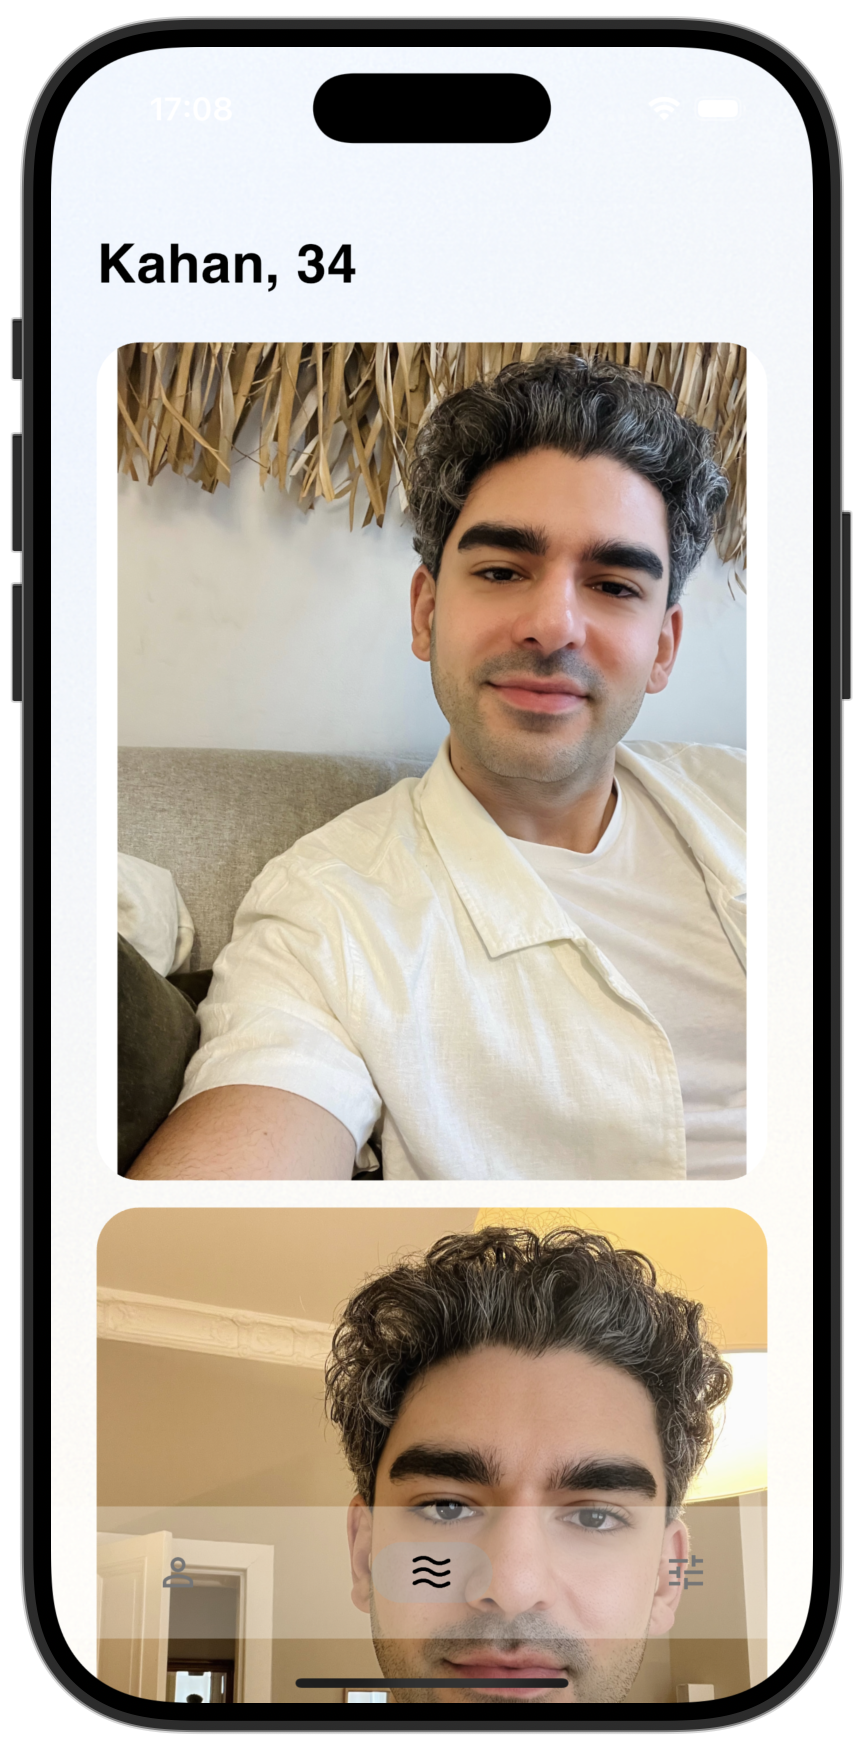
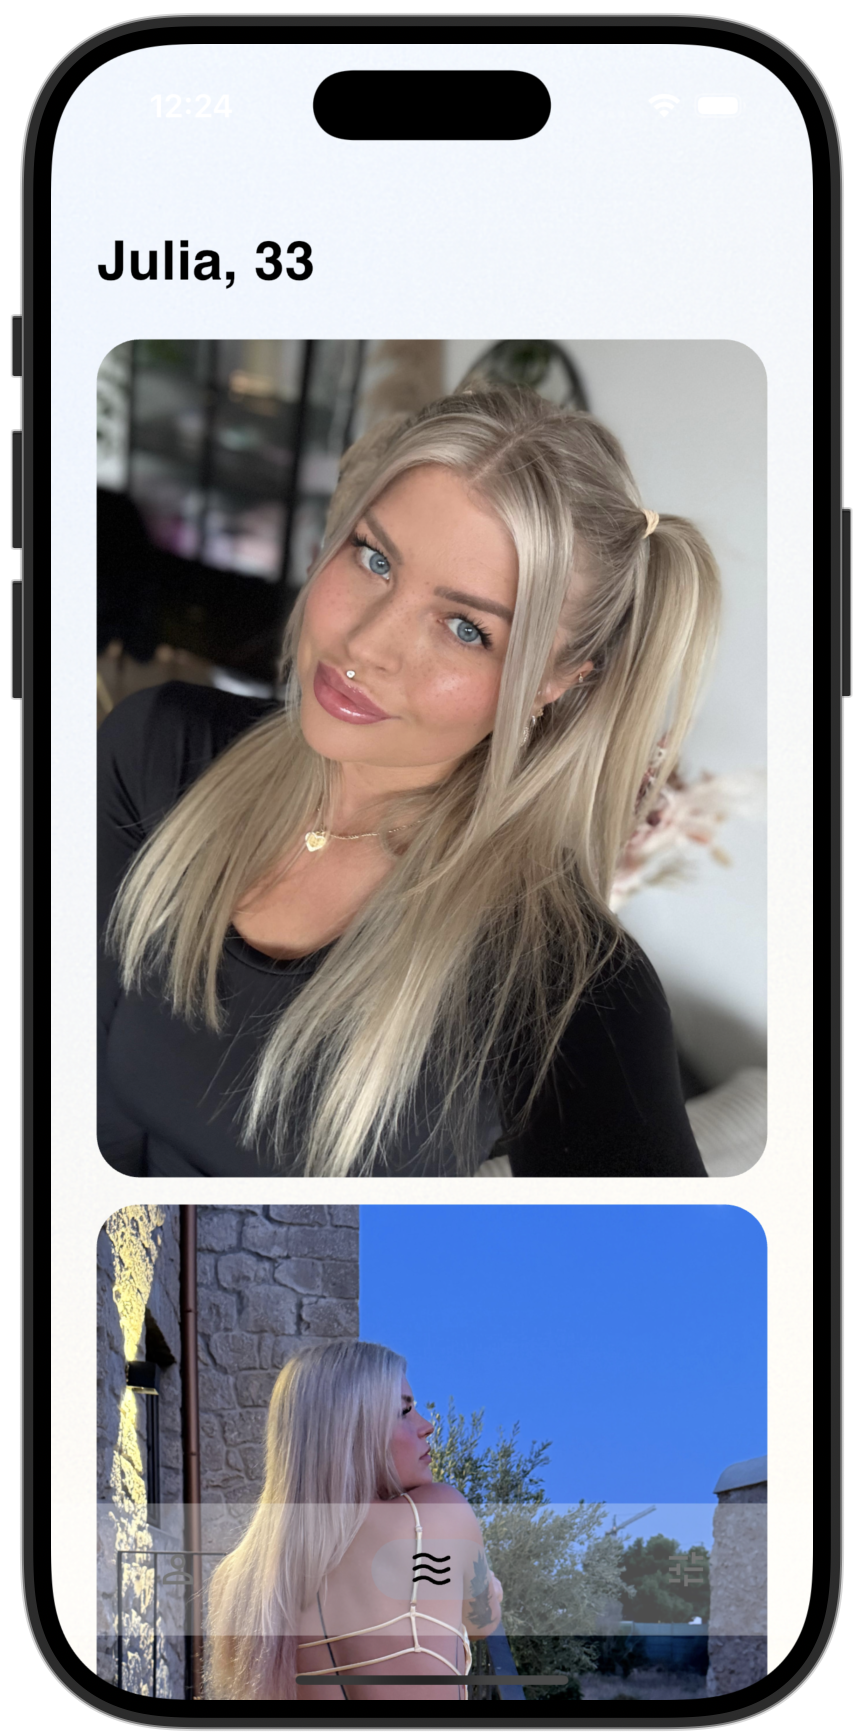
Update step 2 & 3 screenshots: Julia match + Transit date details

diff --git a/index.html b/index.html
@@ -771,8 +771,8 @@
       <div class="steps-phone-col">
         <div class="phone-img" style="position:relative;">
           <img class="phone-screen active" src="screen-step2.png?v=3" alt="App Screenshot Schritt 1" style="position:absolute;top:0;left:0;width:100%;transition:opacity 0.5s ease;">
-          <img class="phone-screen" src="screen-step1.png?v=3" alt="App Screenshot Schritt 2" style="position:absolute;top:0;left:0;width:100%;opacity:0;transition:opacity 0.5s ease;">
-          <img class="phone-screen" src="screen-step3.png?v=3" alt="App Screenshot Schritt 3" style="position:absolute;top:0;left:0;width:100%;opacity:0;transition:opacity 0.5s ease;">
+          <img class="phone-screen" src="screen-step1.png?v=4" alt="App Screenshot Schritt 2" style="position:absolute;top:0;left:0;width:100%;opacity:0;transition:opacity 0.5s ease;">
+          <img class="phone-screen" src="screen-step3.png?v=4" alt="App Screenshot Schritt 3" style="position:absolute;top:0;left:0;width:100%;opacity:0;transition:opacity 0.5s ease;">
           <img src="screen-step2.png?v=3" alt="" style="width:100%;visibility:hidden;">
         </div>
       </div>
